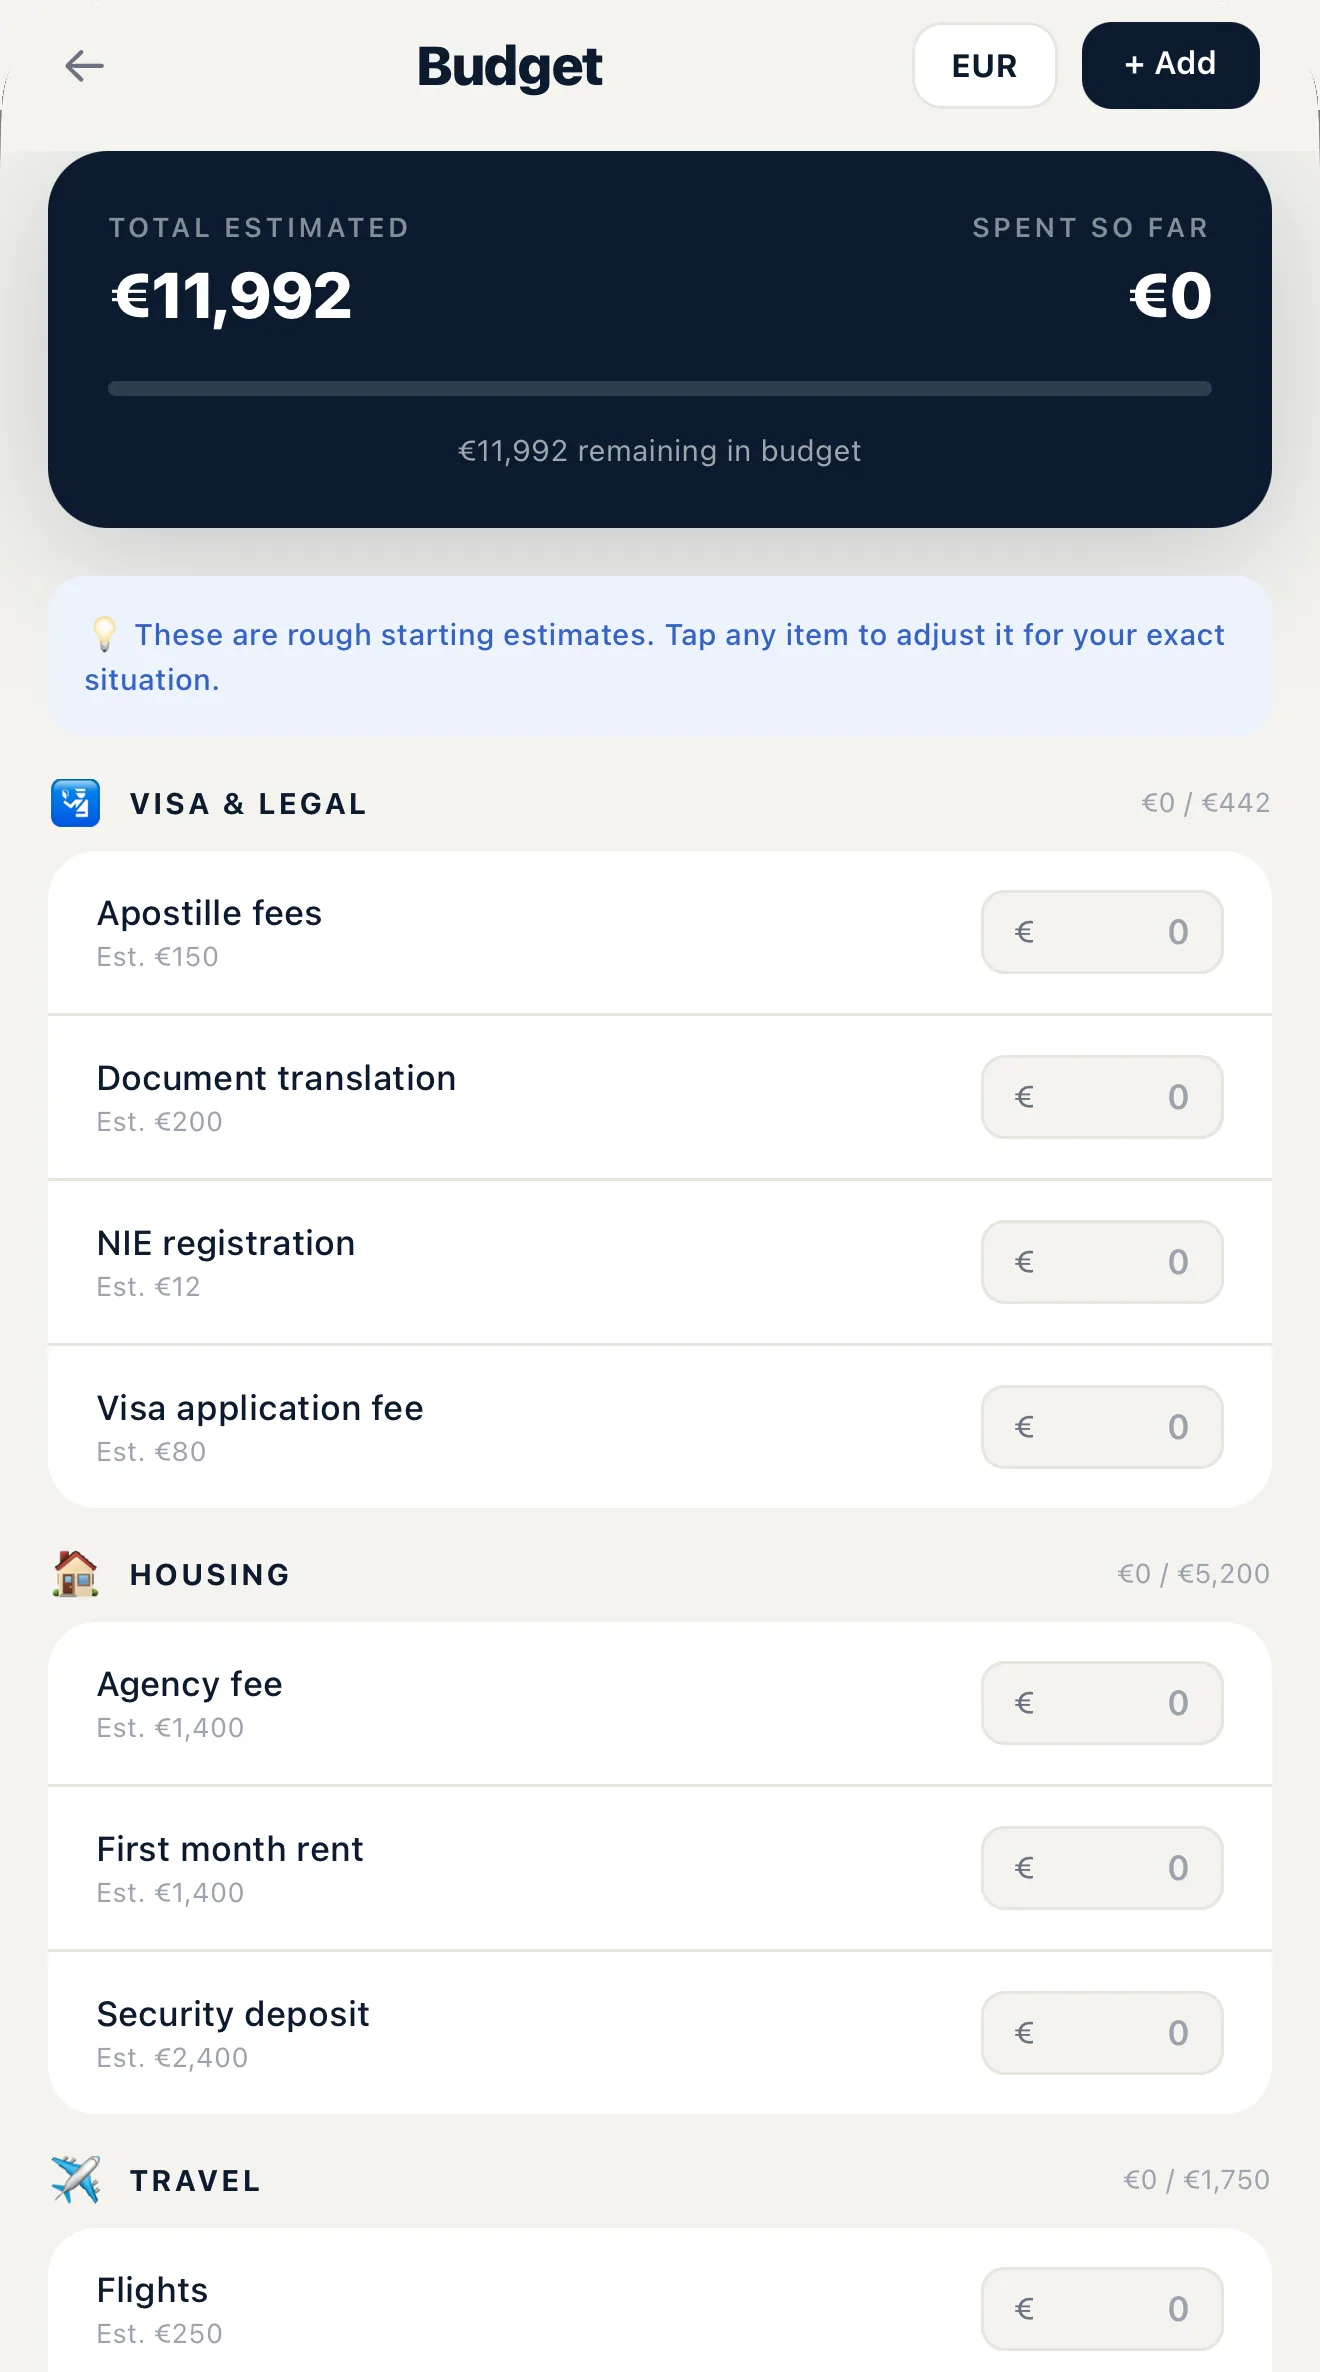
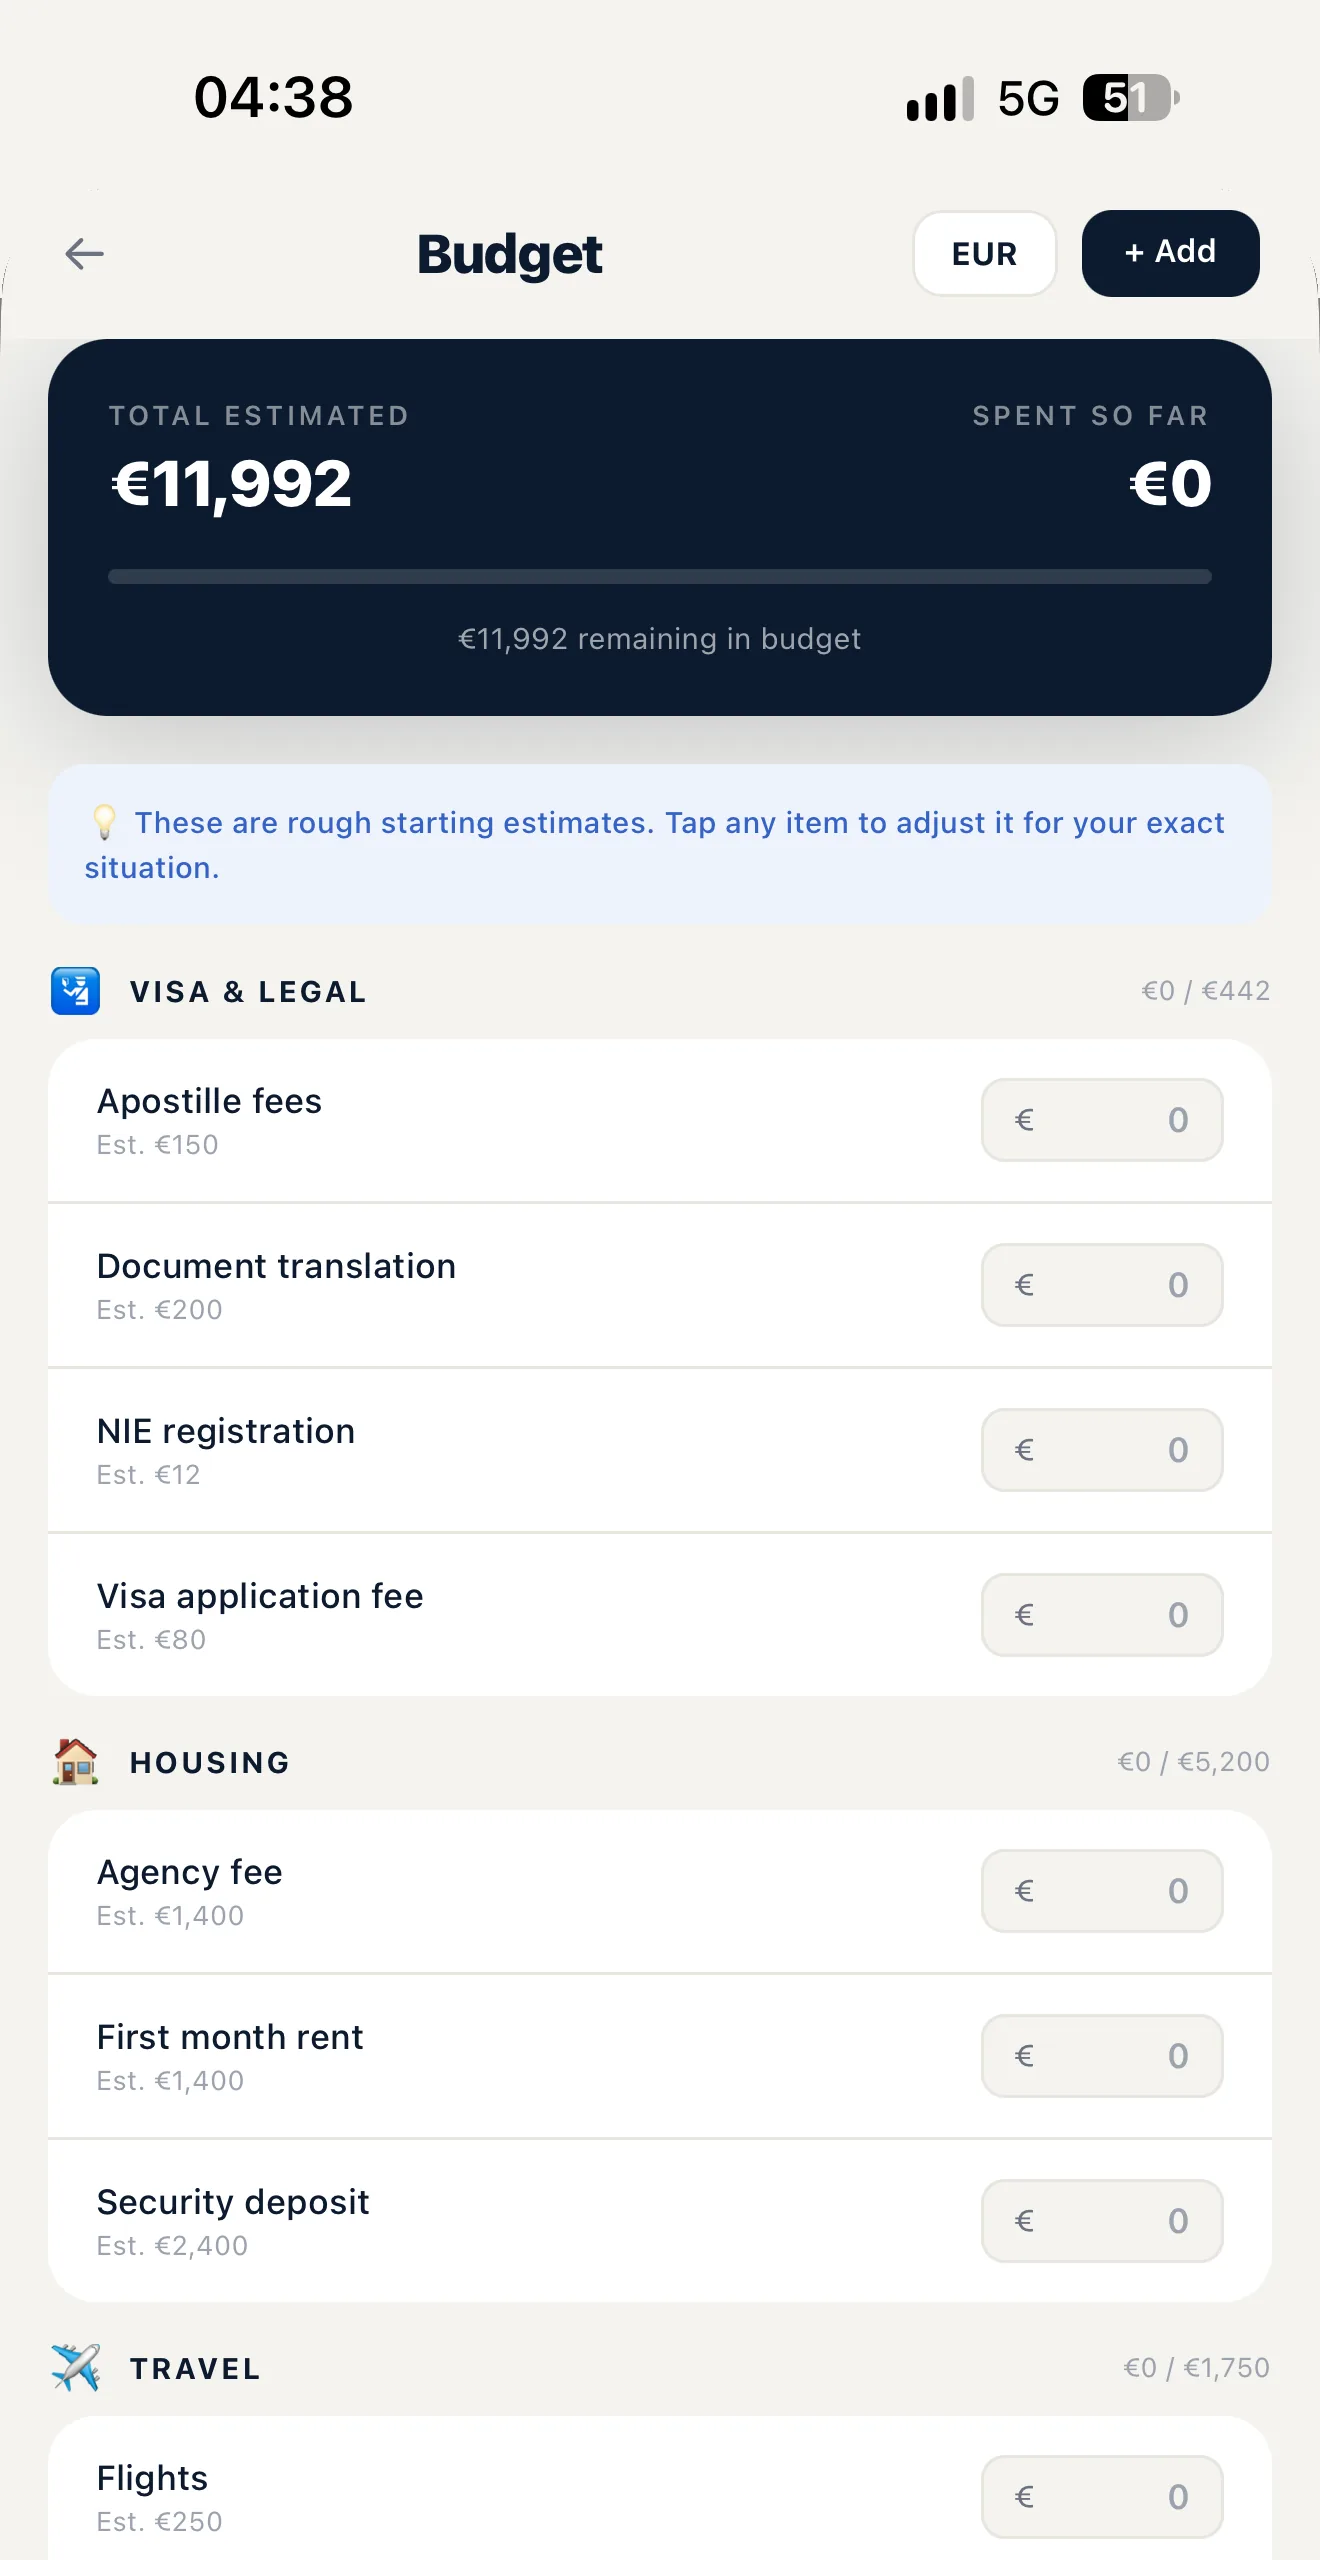
Animated homepage, new screenshots with status bar, app tour, updated footer

diff --git a/components/sections/footer.tsx b/components/sections/footer.tsx
@@ -1,184 +1,130 @@
+import Image from "next/image";
 import Link from "next/link";
-import { getGuides } from "@/content/guides";
+
+import { getPublishedGuides } from "@/content/guides";
+import { STORE_BADGES_LIVE, appStoreLink } from "@/lib/site";
+import StoreBadges from "@/components/ui/store-badges";
 
 import Container from "@/components/ui/container";
 
+const linkClass = "text-slate-600 duration-300 hover:text-[#2563EB]";
+
+// Same anchors as the app tour on the homepage
+const FEATURES = [
+  { label: "Roadmap", href: "/#roadmaps" },
+  { label: "Deadlines", href: "/#deadlines" },
+  { label: "Documents", href: "/#documents" },
+  { label: "Budget", href: "/#budget" },
+  { label: "Tax", href: "/#tax" },
+  { label: "Family", href: "/#family" },
+  { label: "Pets", href: "/#pets" },
+  { label: "AI assistant", href: "/#ai" },
+];
+
+const COMPANY = [
+  { label: "About", href: "/about" },
+  { label: "Contact", href: "/contact" },
+  { label: "Support", href: "/support" },
+];
+
+const LEGAL = [
+  { label: "Privacy Policy", href: "/privacy" },
+  { label: "Terms of Service", href: "/terms" },
+  { label: "Delete Account", href: "/delete-account" },
+];
+
+function Column({ title, links }: { title: string; links: { label: string; href: string }[] }) {
+  return (
+    <div>
+      <h3 className="font-semibold text-slate-900">{title}</h3>
+      <ul className="mt-6 flex flex-col gap-4">
+        {links.map((l) => (
+          <li key={l.href}>
+            <Link href={l.href} className={linkClass}>
+              {l.label}
+            </Link>
+          </li>
+        ))}
+      </ul>
+    </div>
+  );
+}
+
 export default function Footer() {
+  const guides = getPublishedGuides();
+  // A few popular routes plus the overview page
+  const guideLinks = [
+    ...guides
+      .filter((g) => g.kind !== "topic")
+      .slice(0, 5)
+      .map((g) => ({
+        label:
+          g.kind === "route"
+            ? `${g.fromName.replace(/^the /, "")} → ${g.toName}`
+            : g.title.split(":")[0].replace(/ 20\d\d/, "").trim(),
+        href: `/guides/${g.slug}`,
+      })),
+    ...(guides.length ? [{ label: "All moving guides →", href: "/guides" }] : []),
+  ];
+
   return (
     <footer className="border-t border-slate-200 bg-[#F8FBFF]">
       <Container>
-        <div className="grid gap-16 py-20 lg:grid-cols-[1.5fr_1fr_1fr_1fr]">
-
+        <div className="grid grid-cols-2 gap-x-6 gap-y-12 py-20 lg:grid-cols-[1.4fr_1fr_1.3fr_1fr_1fr] lg:gap-10">
           {/* Brand */}
-
-          <div>
+          <div className="col-span-2 lg:col-span-1">
             <div className="flex items-center gap-3">
-              <div className="flex h-12 w-12 items-center justify-center rounded-2xl bg-[#2563EB] text-xl font-bold text-white">
-                R
-              </div>
-
+              <Image
+                src="/logo.png"
+                alt="Relocate+ logo"
+                width={48}
+                height={48}
+                className="h-12 w-12 rounded-2xl object-contain"
+              />
               <div>
-                <h2 className="text-xl font-bold text-slate-900">
-                  Relocate+
-                </h2>
-
-                <p className="text-sm text-slate-500">
-                  Move abroad with confidence.
-                </p>
+                <p className="text-xl font-bold text-slate-900">Relocate+</p>
+                <p className="text-sm text-slate-500">Move abroad with confidence.</p>
               </div>
             </div>
 
             <p className="mt-8 max-w-sm leading-8 text-slate-600">
-              The complete relocation companion for planning,
-              organizing documents and tracking every step
-              of your international move.
+              Your whole move in one app: a personal roadmap, deadlines, a
+              secure document vault, budget, tax, family and pets — with an AI
+              assistant that knows your route.
             </p>
+
+            {STORE_BADGES_LIVE ? (
+              <StoreBadges campaign="footer" className="mt-8" />
+            ) : (
+            <a
+              href={appStoreLink("footer")}
+              className="mt-8 inline-flex items-center gap-2 rounded-full bg-[#0B1530] px-5 py-3 text-sm font-semibold !text-white transition-colors hover:bg-[#2563EB]"
+            >
+              Download on the App Store
+            </a>
+            )}
           </div>
 
-          {/* Product */}
-
-          <div>
-            <h3 className="font-semibold text-slate-900">
-              Product
-            </h3>
-
-            <div className="mt-6 flex flex-col gap-4">
-              <Link
-                href="/#why-relocate"
-                className="text-slate-600 duration-300 hover:text-[#2563EB]"
-              >
-                Features
-              </Link>
-
-              <Link
-                href="/#roadmaps"
-                className="text-slate-600 duration-300 hover:text-[#2563EB]"
-              >
-                Roadmaps
-              </Link>
-
-              <Link
-                href="/#documents"
-                className="text-slate-600 duration-300 hover:text-[#2563EB]"
-              >
-                Documents
-              </Link>
-
-              <Link
-                href="/#ai"
-                className="text-slate-600 duration-300 hover:text-[#2563EB]"
-              >
-                AI Assistant
-              </Link>
-
-              {getGuides().length ? (
-                <Link
-                  href="/guides"
-                  className="text-slate-600 duration-300 hover:text-[#2563EB]"
-                >
-                  Moving guides
-                </Link>
-              ) : null}
-            </div>
-          </div>
-
-          {/* Company */}
-
-          <div>
-            <h3 className="font-semibold text-slate-900">
-              Company
-            </h3>
-
-            <div className="mt-6 flex flex-col gap-4">
-              <Link
-                href="/about"
-                className="text-slate-600 duration-300 hover:text-[#2563EB]"
-              >
-                About
-              </Link>
-
-              <Link
-                href="/contact"
-                className="text-slate-600 duration-300 hover:text-[#2563EB]"
-              >
-                Contact
-              </Link>
-
-              <Link
-                href="/support"
-                className="text-slate-600 duration-300 hover:text-[#2563EB]"
-              >
-                Support
-              </Link>
-            </div>
-          </div>
-
-          {/* Legal */}
-
-          <div>
-            <h3 className="font-semibold text-slate-900">
-              Legal
-            </h3>
-
-            <div className="mt-6 flex flex-col gap-4">
-              <Link
-                href="/privacy"
-                className="text-slate-600 duration-300 hover:text-[#2563EB]"
-              >
-                Privacy Policy
-              </Link>
-
-              <Link
-                href="/terms"
-                className="text-slate-600 duration-300 hover:text-[#2563EB]"
-              >
-                Terms of Service
-              </Link>
-
-              <Link
-                href="/delete-account"
-                className="text-slate-600 duration-300 hover:text-[#2563EB]"
-              >
-                Delete Account
-              </Link>
-            </div>
-          </div>
-
+          {guides.length ? (
+            <>
+              <Column title="Features" links={FEATURES} />
+              <Column title="Moving guides" links={guideLinks} />
+            </>
+          ) : (
+            <Column title="Features" links={FEATURES} />
+          )}
+          <Column title="Company" links={COMPANY} />
+          <Column title="Legal" links={LEGAL} />
         </div>
 
         <div className="flex flex-col items-center justify-between gap-6 border-t border-slate-200 py-8 text-sm text-slate-500 md:flex-row">
-          <p>
-            © 2026 Relocate+. All rights reserved.
-          </p>
+          <p>© {new Date().getFullYear()} Relocate+. All rights reserved.</p>
 
-          <div className="flex gap-8">
-            <Link
-              href="/privacy"
-              className="duration-300 hover:text-[#2563EB]"
-            >
-              Privacy
-            </Link>
-
-            <Link
-              href="/terms"
-              className="duration-300 hover:text-[#2563EB]"
-            >
-              Terms
-            </Link>
-
-            <Link
-              href="/delete-account"
-              className="duration-300 hover:text-[#2563EB]"
-            >
-              Delete Account
-            </Link>
-
-            <Link
-              href="/contact"
-              className="duration-300 hover:text-[#2563EB]"
-            >
-              Contact
-            </Link>
+          <div className="flex flex-wrap justify-center gap-x-8 gap-y-3">
+            <Link href="/privacy" className="duration-300 hover:text-[#2563EB]">Privacy</Link>
+            <Link href="/terms" className="duration-300 hover:text-[#2563EB]">Terms</Link>
+            <Link href="/delete-account" className="duration-300 hover:text-[#2563EB]">Delete Account</Link>
+            <Link href="/contact" className="duration-300 hover:text-[#2563EB]">Contact</Link>
           </div>
         </div>
       </Container>

diff --git a/components/sections/hero.tsx b/components/sections/hero.tsx
@@ -120,12 +120,13 @@ export default function Hero() {
             <Float amplitude={12} duration={7}>
               {/* Gradient ring border around phone — premium detail */}
               <div className="rounded-[46px] bg-gradient-to-b from-slate-200 via-white to-slate-300 p-[3px] shadow-[0_50px_120px_rgba(15,23,42,.22)]">
-                <div className="overflow-hidden rounded-[43px] border-[9px] border-[#0F172A] bg-black">
+                <div className="relative overflow-hidden rounded-[43px] border-[9px] border-[#0F172A] bg-black">
+                  <div aria-hidden="true" className="pointer-events-none absolute left-1/2 top-[1.3%] z-10 h-[3.4%] w-[29%] -translate-x-1/2 rounded-full bg-black" />
                   <Image
                     src="/images/home.webp"
                     alt="Relocate+ home screen showing a move from the Netherlands to Spain, 75% ready"
                     width={1320}
-                    height={2680}
+                    height={2868}
                     priority
                     className="h-auto w-[280px] sm:w-[320px] lg:w-[340px]"
                     sizes="(max-width: 640px) 280px, (max-width: 1024px) 320px, 340px"

diff --git a/components/sections/app-tour.tsx b/components/sections/app-tour.tsx
@@ -247,7 +247,8 @@ export default function AppTour() {
             />
             <div className="relative h-full max-h-[min(72svh,720px)] lg:h-[min(76svh,720px)]">
               <div className="h-full rounded-[44px] bg-gradient-to-b from-slate-500/60 via-slate-700/40 to-slate-500/60 p-[3px] shadow-[0_50px_120px_rgba(0,0,0,.45)]">
-                <div className="relative h-full overflow-hidden rounded-[41px] border-[8px] border-[#05080F] bg-[#F4F3EF]" style={{ aspectRatio: "1320 / 2680" }}>
+                <div className="relative h-full overflow-hidden rounded-[41px] border-[8px] border-[#05080F] bg-[#F4F3EF]" style={{ aspectRatio: "1320 / 2868" }}>
+                  <div aria-hidden="true" className="pointer-events-none absolute left-1/2 top-[1.3%] z-10 h-[3.4%] w-[29%] -translate-x-1/2 rounded-full bg-black" />
                   {FEATURES.map((f, i) => (
                     <Image
                       key={f.id}
